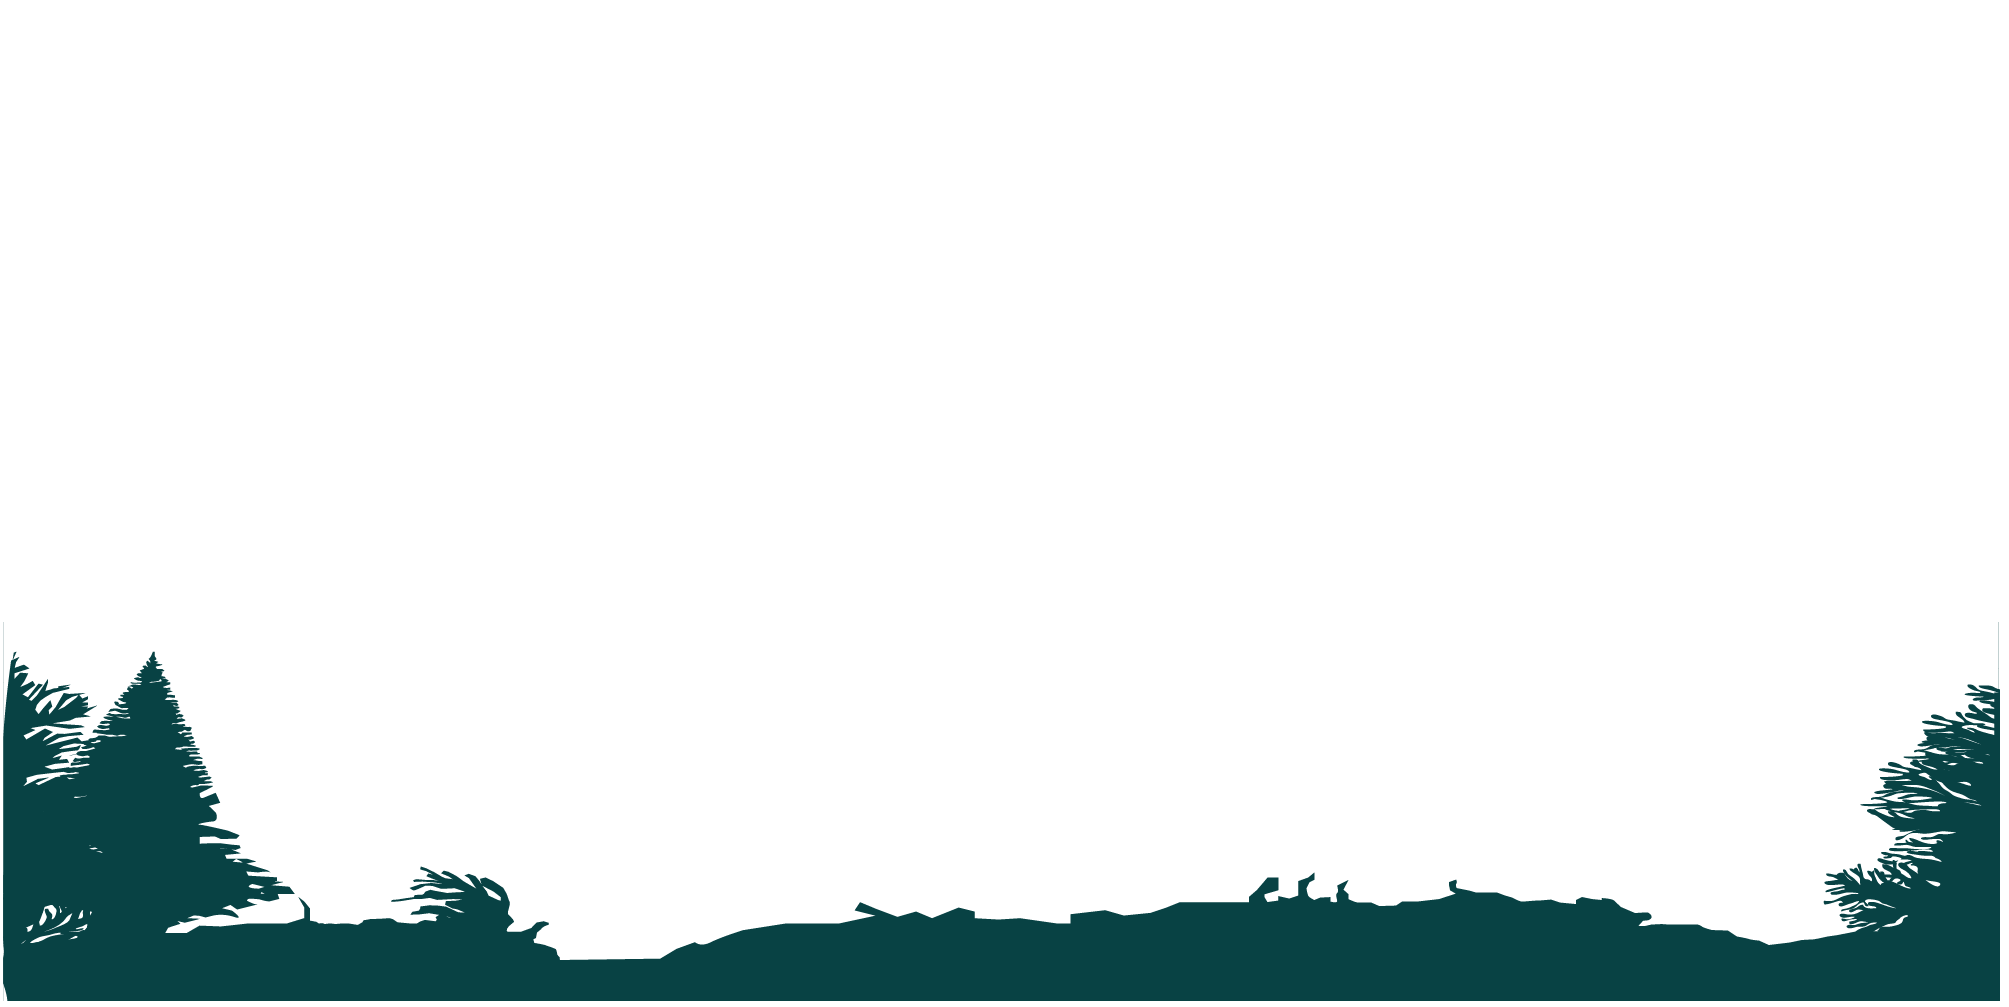
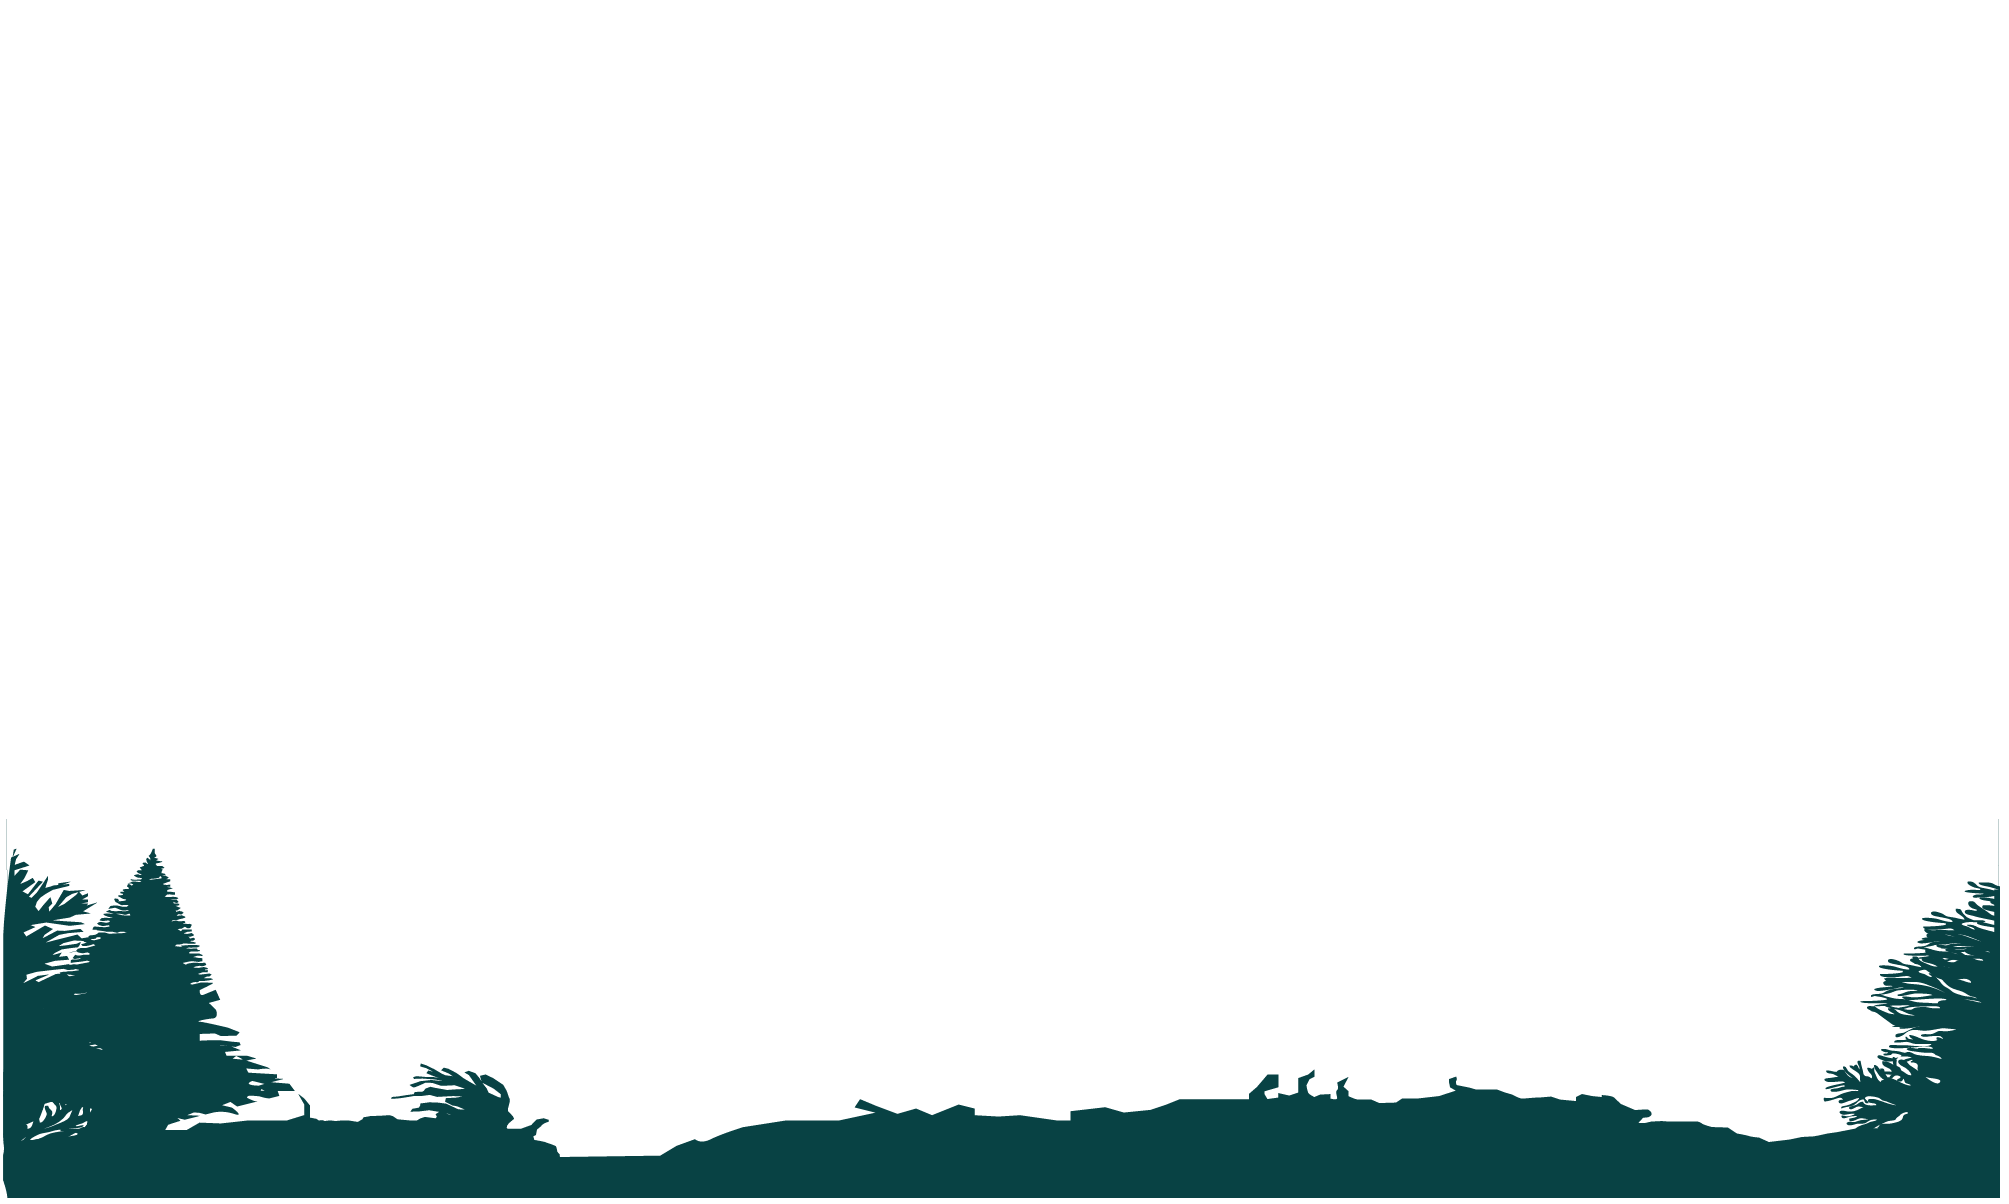
Add files via upload

Changed region(s): [[0.2778, 0.6773, 1.0, 0.9851], [0.0, 0.6465, 0.2778, 0.9543], [0.0, 0.8928, 0.0309, 0.9543]]

diff --git a/estiles.css b/estiles.css
@@ -7,33 +7,31 @@
     --color-oscuro2: #004445;
     --color-medio1: #2c7873;
     --color-medio2: #6fb98f;
+    font-family: 'Literata', serif;
+    font-family: 'Prata', serif;
+    font-family: 'DM Serif Display', serif;
+    font-family: 'Roboto', sans-serif;
 }
-#body{
+#body{    
     margin: auto;
     width: 95vw;
     height: 2000px;
     border: 1px solid red;
 }
-/*#boxCuadro{
-    background: linear-gradient(#2c7873, #004445 );
+/*/////////////// FLEX-BOX//////////////*/
+#boxCuadro{    
+    background: linear-gradient(#bce7e4, #004445 );
     width: 100%;
-    height: 1800px;
-    padding-top:100px;
-}*/
-#cuadro{
-   
-    
+    height: 700px;    
+}
+#cuadro{    
     width: 100%;
-    height: 800px;
-   
+    height: 800px;   
    z-index: 1;
 }
-
 #five{
-    position: absolute;
-   
-    background: url(IMG-/BOSQUE/five.png); 
-  
+    position: absolute;   
+    background: url(IMG-/BOSQUE/five.png);  
     background-repeat:no-repeat;
     background-size: 100%;
     background-attachment: fixed;
@@ -43,10 +41,8 @@
     background-position: center;
 }
 #four{
-    position: absolute;
-    
-    background: url(IMG-/BOSQUE/four.png);
-    
+    position: absolute;    
+    background: url(IMG-/BOSQUE/four.png);    
     background-attachment: fixed;
     background-size: 100%;
     background-repeat: no-repeat;
@@ -85,22 +81,55 @@
     width: 100%;
     height: 800px;
     background-size: 100%;
-    z-index: 6;
-    
+    z-index: 6;    
 }
-
-
-
-/*main{
+#main{
     background: var(--color-oscuro1);
     position: relative;
     float: left;
     opacity: 0.5;
-    height:2000px;*/
+    height:2000px;
     
 }
+/*////////////// PORTADA  ////////////////*/
+#box1{
+    background: url(IMG-/fondoNegro.png);
+    width: 100%;
+    height: 200px;
+    position: absolute;
+    margin-top: 59%;
+    z-index: 8;    
+}
+#portada1{    
+    display: flex;
+    justify-content: center;
+    align-items: flex-start;
+    padding-top:100px;
+}
+#portada2{
+    /*background: rgba(0,0,0, 0.2);   */
+    text-align: center;
+    border-radius: 6px;
+    padding: 20px;
+    color: white;
+    z-index: 7;
+    position: absolute;
+    display: inline-block;
+    margin-top: 100px;
+    margin:auto;
+    font-size: 4vmin;    
+    line-height: 4vmax;
+    text-shadow: 2px 2px rgba(0, 0, 0, 0.5);
 
+}
+#portada2> h1{
+    font-family: 'DM Serif Display', serif;
+    font-size: 4vmax;
+}
 
-
+#portada2> h3, h2{
+    font-family: 'Literata', serif;
+    font-size: 2vmax;
+}
 
 

diff --git a/index.html b/index.html
@@ -6,6 +6,7 @@
     <meta http-equiv="X-UA-Compatible" content="ie=edge">
 
     <link rel="stylesheet" href="estiles.css">
+    <link href="https://fonts.googleapis.com/css?family=DM+Serif+Display|Literata|Prata|Roboto&display=swap" rel="stylesheet">
 
     <title>Document</title>
 </head>
@@ -25,18 +26,26 @@
       <div id="dos" class="bosque">
          
       </div>
-      <div id="uno" class="bosque">
-        
+      <div id="uno" class="bosque">        
+      </div>
+
+      <div id="box1">
+
       </div>
   
-           
+   <div id="portada1">
+     <div id="portada2">
+       <h3 class="presentacion">Hola soy<br></h3>  
+       <h1 class="presentacion">Armando Pinzon Vera</h1>
+       <h2 class="presentacion" id="typeWriter"> Soy un
+        <span class="txt-type" data-wait="2000" data-words='["Desarrollador", "Creativo", "Analista"]'></span> 
+       </h2>
+     </div>
+   </div>
   
   </div>
 </div>
-<main id="main">
 
-
-</main>
 
 <script
 src="https://code.jquery.com/jquery-3.4.1.min.js"

diff --git a/main.js b/main.js
@@ -1,4 +1,4 @@
-
+/*////////////   PARALLAX   //////////////*/
 $(document).ready(function(){
     $(window).scroll(function(){
         var barra = $(window).scrollTop();
@@ -20,8 +20,46 @@ $(document).ready(function(){
         });
         $('#five').css({
             'background-position':'0 -' + posicion5 + 'px'
-        });
-
+        });       
 
     });
 });
+/*///////////////  TYPE-WRITING ///////////////*/
+/*
+var i, text;
+i=0;
+text="soy programador full-stack";
+text2="soy un amante de la creatividad";
+text3="soy agricultor";
+
+function typing(){
+
+    if(i<text.length){
+        document.getElementById("typeWriter").innerHTML += text.charAt(i);
+        i++;   
+        setTimeout(typing,70);                      
+    }
+    
+}
+typing();
+*/
+
+
+
+
+
+
+
+
+
+
+
+
+
+
+
+
+
+
+
+
